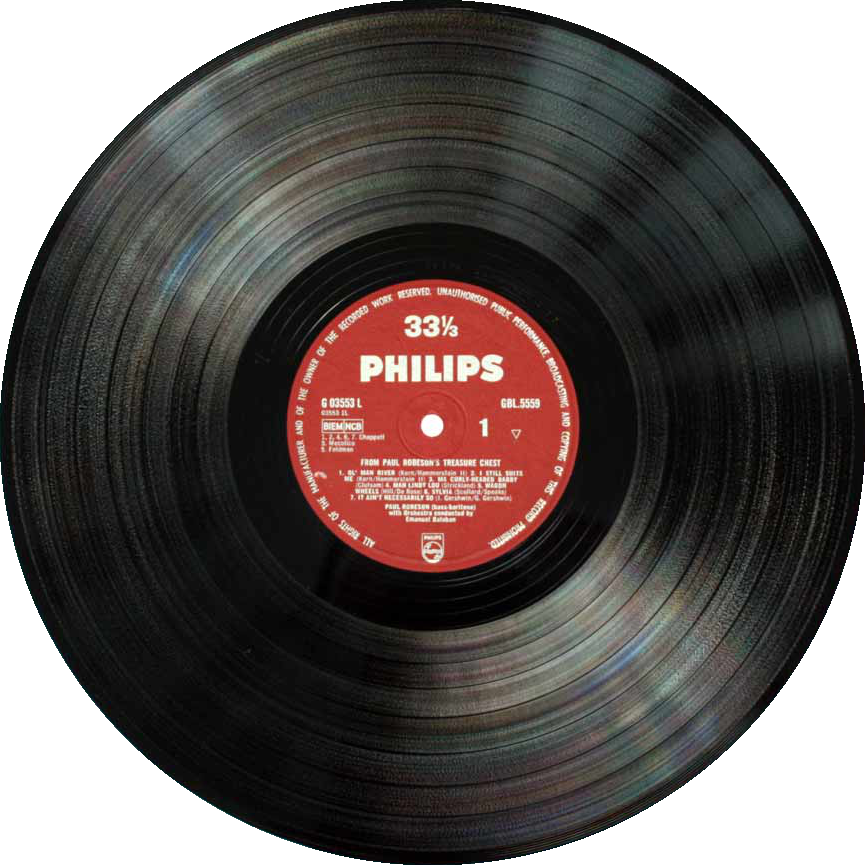
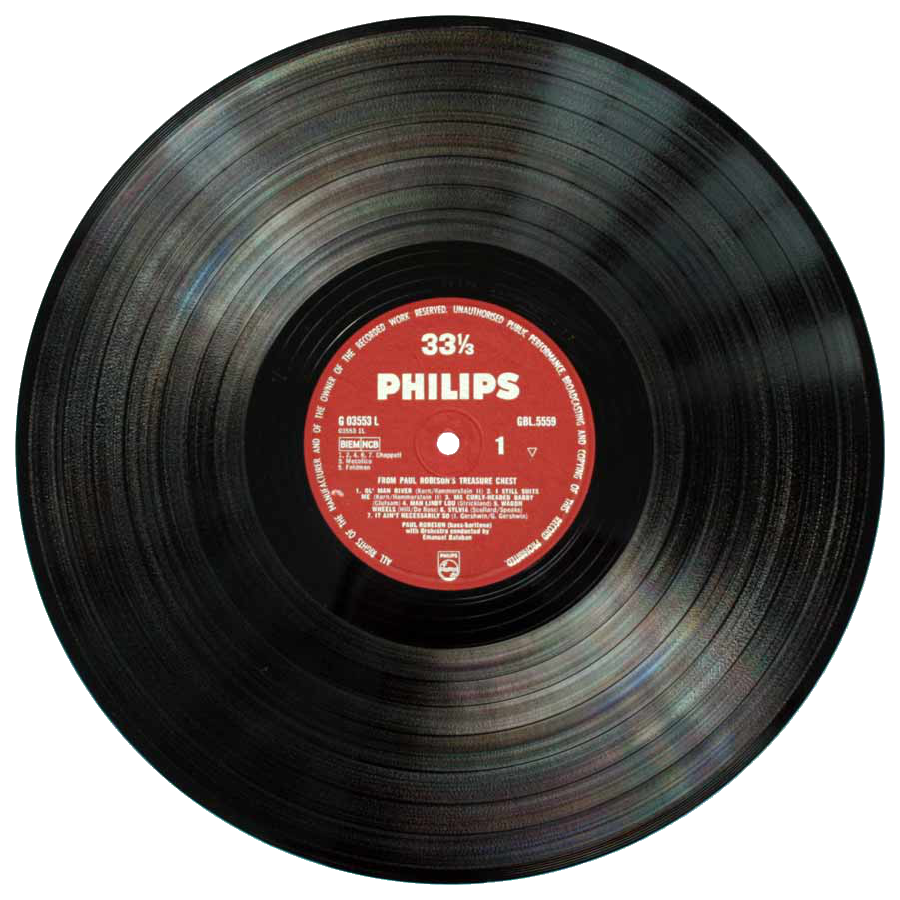
added vinyl loop anim

diff --git a/app/js/app.js b/app/js/app.js
@@ -103,8 +103,11 @@ window.addEventListener("load", function() {
             this.mailTo.setAttribute("href", "mailto:" + mailAddress[1]);
             this.mailTo.text = mailAddress[1];
 
-            var vinyl = document.querySelector(".vinyl");
-            TweenMax.to(vinyl, 1, { rotation: "360", transformOrigin: "center center", ease: Linear.easeNone, repeat: -1 });
+            this.vinyl = document.querySelector(".vinyl");
+
+            this.tlVinyl = new TimelineMax({ repeat: -1 });
+            this.tlVinyl.to(this.vinyl, 1.2, { rotation: "360", transformOrigin: "50% 50%", ease: Linear.easeNone });
+            this.tlVinyl.stop();
 
         },
 
@@ -130,6 +133,10 @@ window.addEventListener("load", function() {
                 });
 
                 this.scPlayer.on('play', this.playCallHandler.bind(this));
+
+                this.scPlayer.on('pause', function() {
+                    this.tlVinyl.stop();
+                }.bind(this));
 
                 // set property
                 this.songListUlLi = this.songListUl.querySelectorAll('li');
@@ -325,7 +332,7 @@ window.addEventListener("load", function() {
 
             // reset bar if any play next or previous options selected
             if (_.indexOf(["next", "previous"], param) > -1) {
-                //TweenMax.set(this.percentageBarSpan, { css: { width: "0%" } });
+                //TweenLite.set(this.percentageBarSpan, { css: { width: "0%" } });
                 this.percentageBarSpan.style.width = (0 + "%");
 
                 // ensure that the button attribute is set correctly
@@ -356,22 +363,22 @@ window.addEventListener("load", function() {
         setPlayNextPrevControllerVsibility: function() {
 
             if (!this.scPlayer._playlistIndex) {
-                TweenMax.to(this.btnPrevious, 0.2, { css: { opacity: this.playControllersCommonOpacity } });
+                TweenLite.to(this.btnPrevious, 0.2, { css: { opacity: this.playControllersCommonOpacity } });
                 return null;
             }
 
             // hide button next if current index equals or bigger then length of tracks
             if (this.scPlayer._playlistIndex >= this.scPlayer._playlist.tracks.length - 1) {
-                TweenMax.to(this.btnNext, 0.2, { css: { opacity: this.playControllersCommonOpacity } });
+                TweenLite.to(this.btnNext, 0.2, { css: { opacity: this.playControllersCommonOpacity } });
             } else {
-                TweenMax.to(this.btnNext, 0.2, { css: { opacity: 1 } });
+                TweenLite.to(this.btnNext, 0.2, { css: { opacity: 1 } });
             }
 
             // hide button previous if current index is first
             if (!this.scPlayer._playlistIndex || this.scPlayer._playlistIndex === 0) {
-                TweenMax.to(this.btnPrevious, 0.2, { css: { opacity: this.playControllersCommonOpacity } });
+                TweenLite.to(this.btnPrevious, 0.2, { css: { opacity: this.playControllersCommonOpacity } });
             } else {
-                TweenMax.to(this.btnPrevious, 0.2, { css: { opacity: 1 } });
+                TweenLite.to(this.btnPrevious, 0.2, { css: { opacity: 1 } });
             }
 
         },
@@ -393,6 +400,9 @@ window.addEventListener("load", function() {
             this.songListUlLi[this.scPlayer._playlistIndex].classList.add('active');
 
             this.setCurrentSongMetadata();
+
+            this.tlVinyl.play();
+
 
         },
 
@@ -559,7 +569,7 @@ window.addEventListener("load", function() {
 
             this.form.style.display = "none";
 
-            TweenMax.to(this.uploadSuccessMsg, 0.3, {
+            TweenLite.to(this.uploadSuccessMsg, 0.3, {
                 css: { opacity: 1 },
                 onStart: function() {
                     this.spinner.style.display = "";
@@ -571,7 +581,7 @@ window.addEventListener("load", function() {
 
             setTimeout(function() {
 
-                TweenMax.to(this.uploadSuccessMsg, 0.3, {
+                TweenLite.to(this.uploadSuccessMsg, 0.3, {
                     css: { opacity: 0 },
                     onComplete: function() {
                         this.uploadSuccessMsg.style.display = "";
@@ -591,7 +601,7 @@ window.addEventListener("load", function() {
 
             if (this.form.terms_and_conditions.checked && this.form.song_title.value.length > 0 && this.form.audio.files && this.form.audio.files.length === 1 && this.form.audio.files[0].type === "audio/mp3") {
                 this.form.classList.add("valid");
-                TweenMax.to(this.form.submit, 0.3, {
+                TweenLite.to(this.form.submit, 0.3, {
                     css: { opacity: 1 },
                     onStart: function() {
 
@@ -604,7 +614,7 @@ window.addEventListener("load", function() {
             } else {
 
                 this.form.classList.remove("valid");
-                TweenMax.to(this.form.submit, 0.3, {
+                TweenLite.to(this.form.submit, 0.3, {
                     css: { opacity: 0 },
                     onComplete: function() {
 

diff --git a/app/index.html b/app/index.html
@@ -24,7 +24,7 @@
             <main>
                 <div class="column column-l">
                     <section class="main-poster">
-                        <img class="vinyl" src="img/vinyl.png?201602282140" alt="">
+                        <img class="vinyl" src="img/vinyl-v2.png?201602290115" alt="">
                     </section>
                     <!-- start: player controllers -->
                     <div class="player-controllers">
@@ -156,8 +156,8 @@
     <!-- end: templates -->
     <!-- start: scripts -->
     <script src="https://connect.soundcloud.com/sdk/sdk-3.0.0.js"></script>
-    <script src="bower_components/gsap/src/minified/TweenMax.min.js"></script>
-    <script src="bower_components/gsap/src/minified/TimelineLite.min.js"></script>
+    <script src="bower_components/gsap/src/minified/TweenLite.min.js"></script>
+    <script src="bower_components/gsap/src/minified/TimelineMax.min.js"></script>
     <script src="bower_components/gsap/src/minified/plugins/CSSPlugin.min.js"></script>
     <script src="bower_components/gsap/src/minified/easing/EasePack.min.js"></script>
     <script src="bower_components/lodash/dist/lodash.min.js"></script>

diff --git a/app/css/main.css b/app/css/main.css
@@ -325,7 +325,7 @@ button {
     overflow: hidden;
     background-color: #000; }
     .freeangola .main-poster .vinyl {
-      width: 75%;
+      width: 100%;
       height: auto;
       left: 50%;
       position: absolute;
@@ -1016,7 +1016,7 @@ form {
   .freeangola .main-poster {
     height: 35vh; }
     .freeangola .main-poster .vinyl {
-      width: 75%;
+      width: 100%;
       height: auto; }
   .freeangola .player-controllers {
     height: 175px; }

diff --git a/src/sass/app.scss b/src/sass/app.scss
@@ -184,7 +184,7 @@ button {
         overflow: hidden;
         background-color: #000;
         .vinyl {
-            width: 75%;
+            width: 100%;
             height: auto;
             left: 50%;
             position: absolute;
@@ -917,7 +917,7 @@ form {
         .main-poster {
             height: 35vh;
             .vinyl {
-                width: 75%;
+                width: 100%;
                 height: auto;
             }
         }
